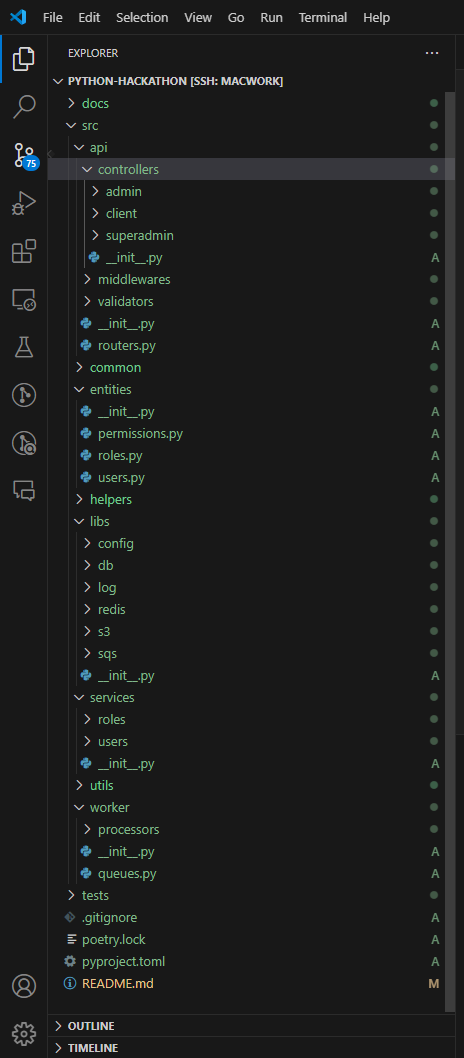
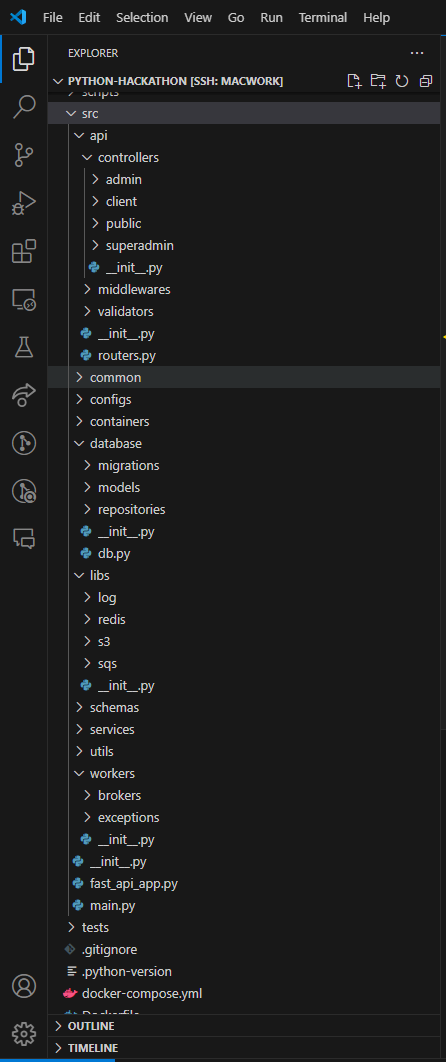
update file structure

diff --git a/src/api/controllers/public/auth.py b/src/api/controllers/public/auth.py
@@ -4,10 +4,10 @@ from dependency_injector.wiring import (
 )
 from fastapi import APIRouter, Depends
 
-from ...containers.service_container import ServiceContainer
-from ...libs.log import logging
-from ...schemas.auth import TokenResponse, RefreshTokenRequest, LoginRequest
-from ...services.auth import AuthService
+from ....containers.service_container import ServiceContainer
+from ....libs.log import logging
+from ....schemas.auth import TokenResponse, RefreshTokenRequest, LoginRequest
+from ....services.auth import AuthService
 
 router = APIRouter(prefix="/auth")
 logger = logging.setup_logger(__name__)

diff --git a/src/api/routers.py b/src/api/routers.py
@@ -1,7 +1,7 @@
 from fastapi import APIRouter
 
-from src.api.controllers import users, tasks, auth
-from src.api.controllers.public import health
+from src.api.controllers import users, tasks
+from src.api.controllers.public import auth, health
 
 router = APIRouter(prefix='/api')
 router.include_router(health.router)
